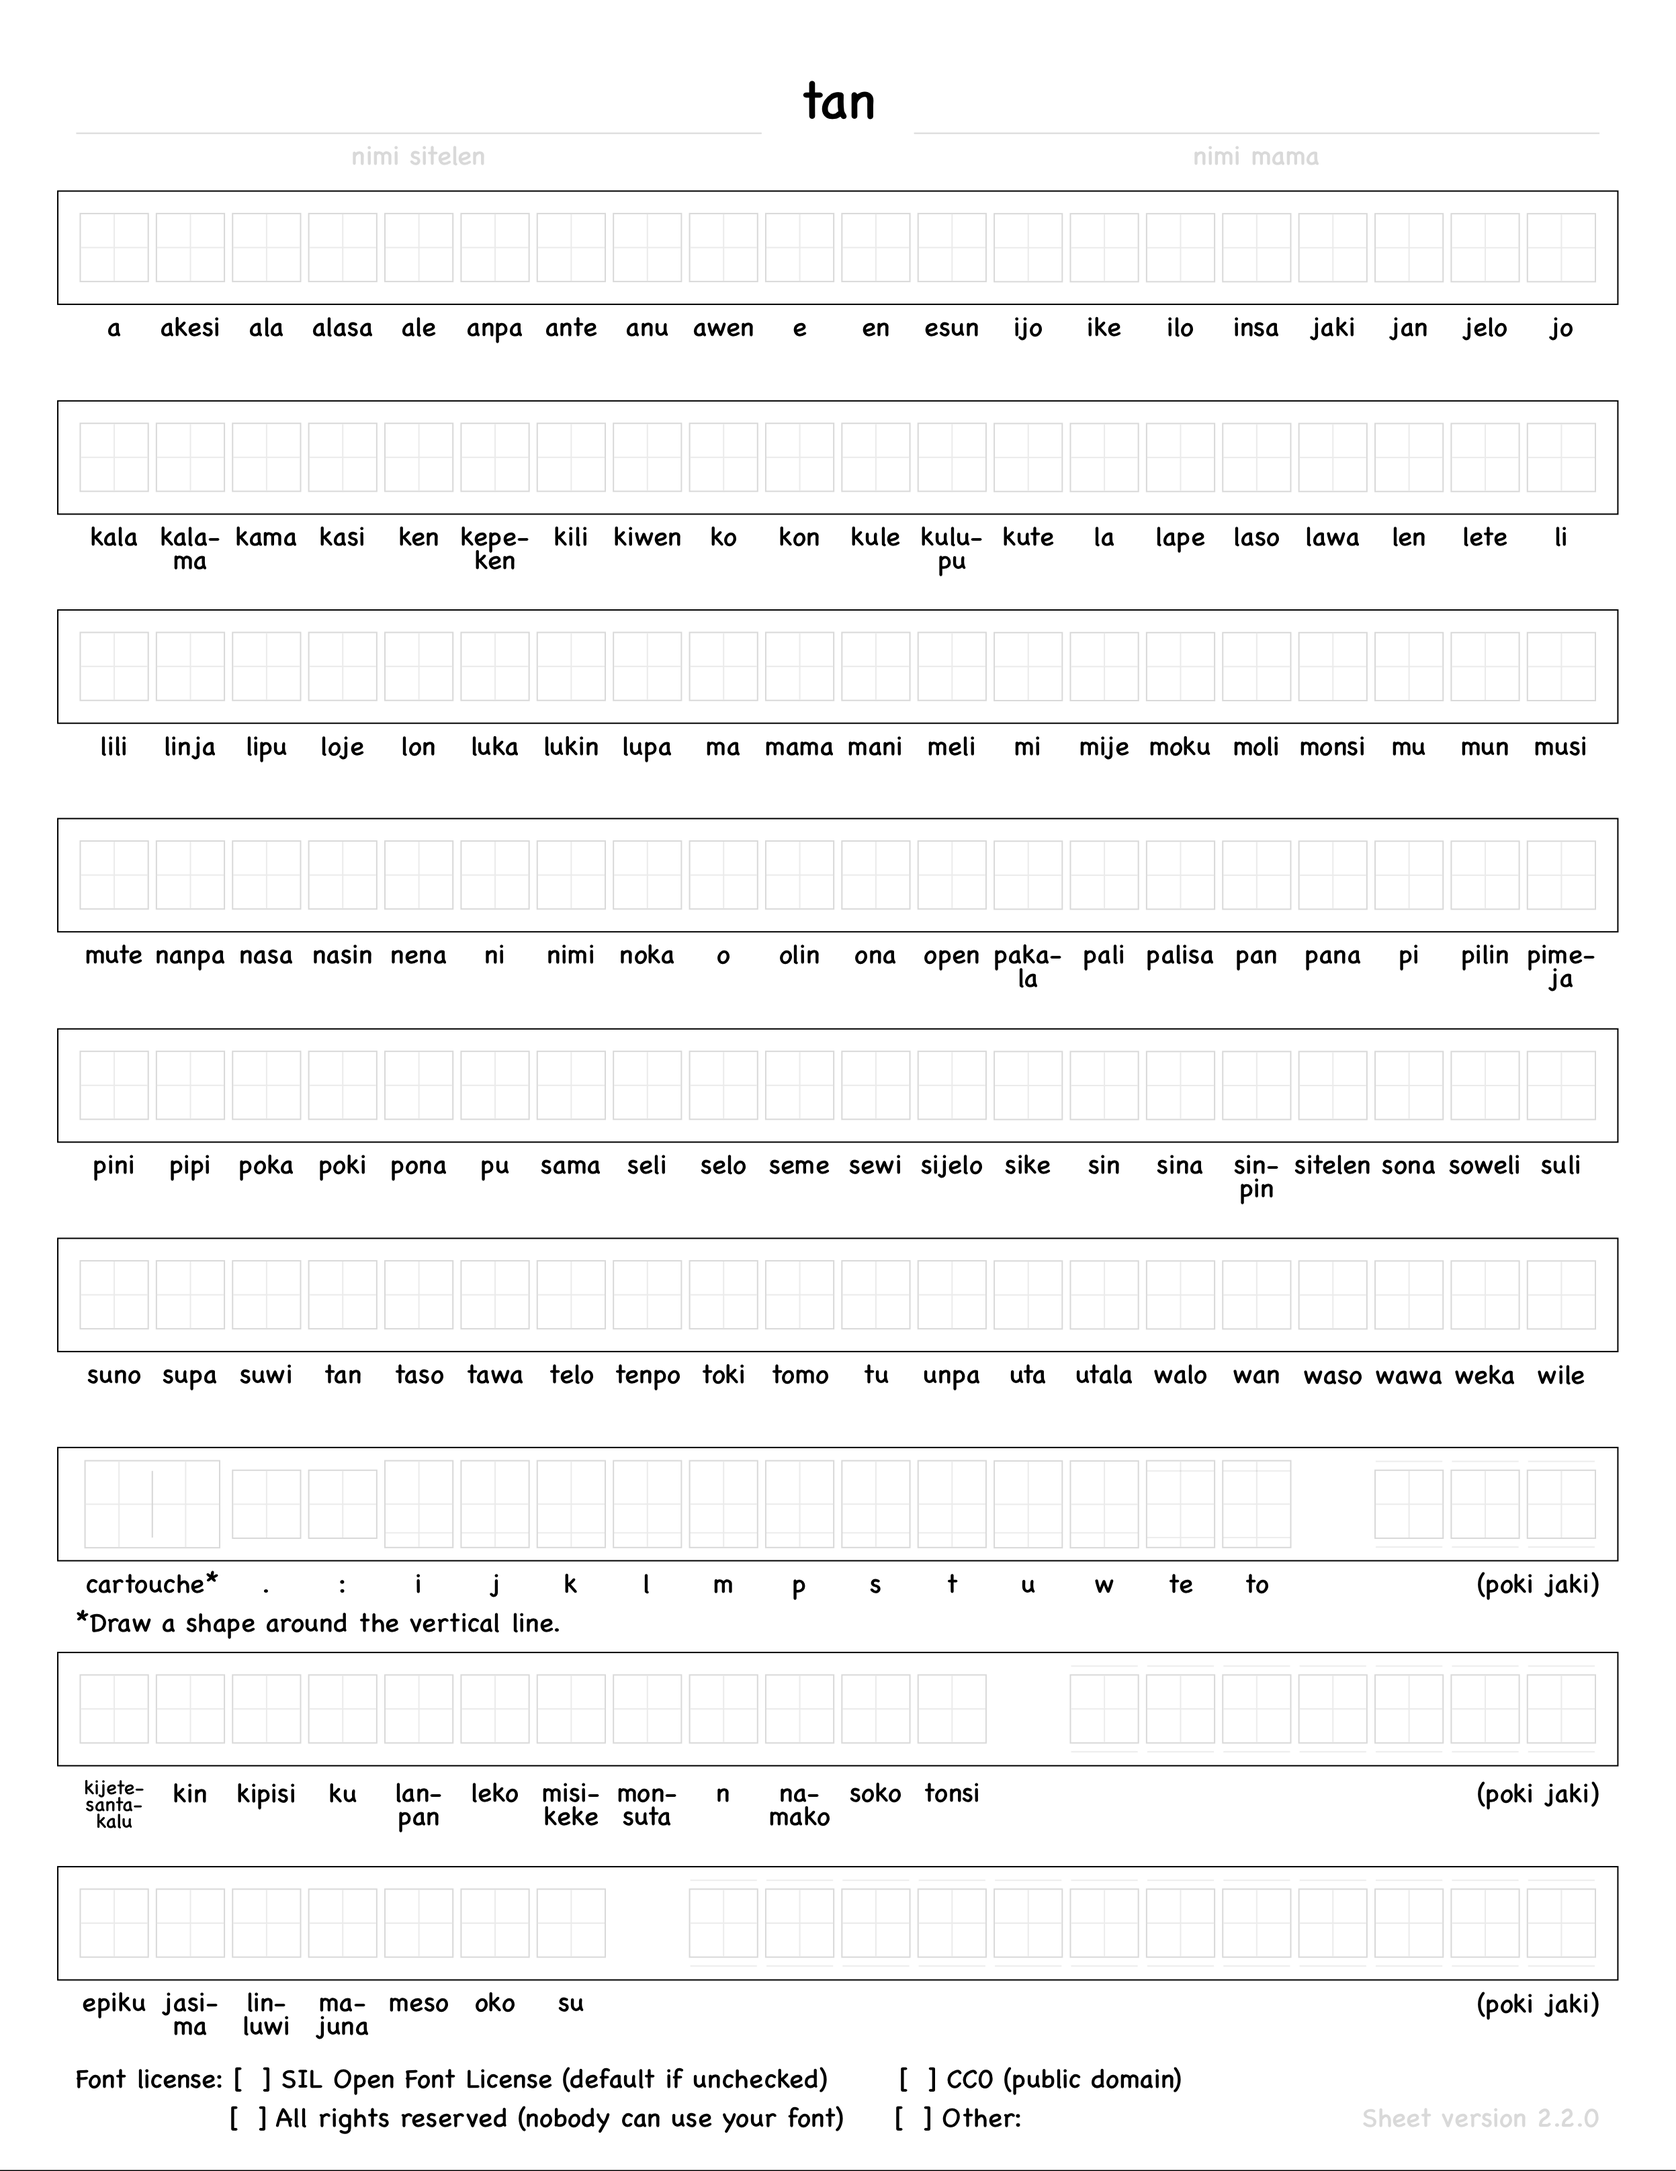
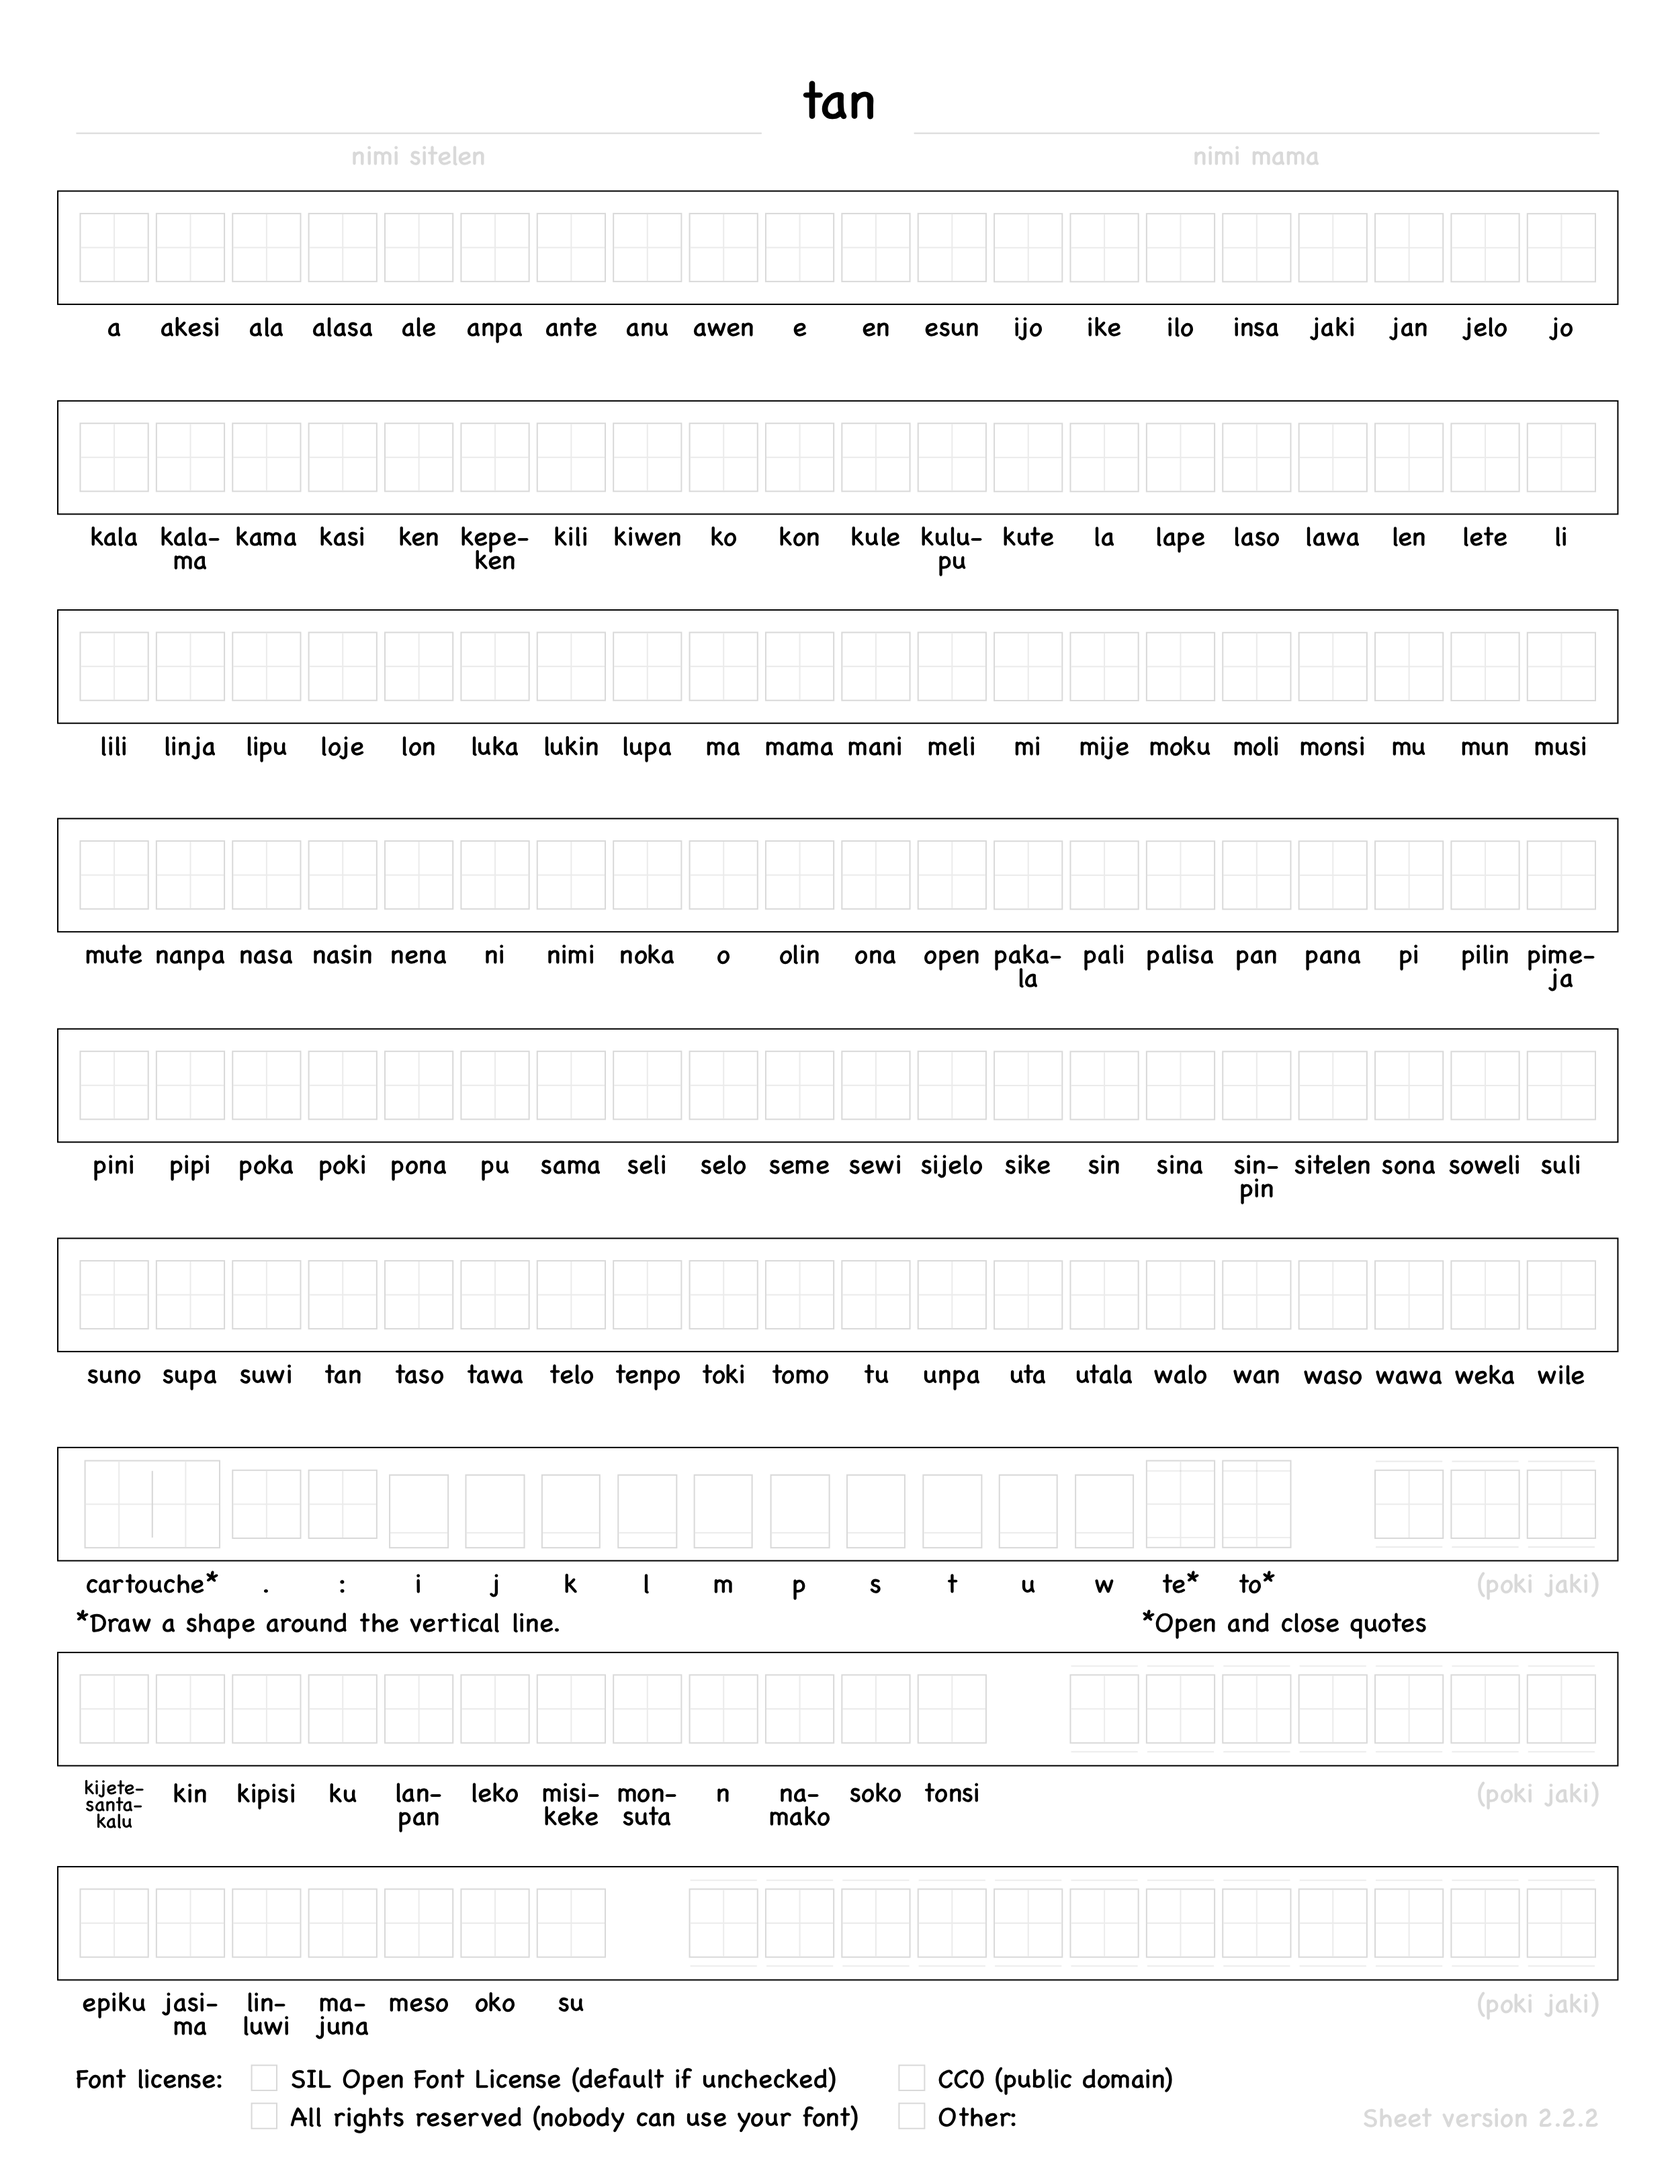
template v2.2.2, and other small changes

diff --git a/handwrite/svgtottf.py b/handwrite/svgtottf.py
@@ -105,6 +105,7 @@ class SVGtoTTF:
                     ))
                     # # If you make ligatures of the format `p o n a space`, 
                     # # the spacing is incorrect in every browser on iPhone and iPad, as well as Safari for macOS.
+                    # # (The browser correctly renders the ligature, but incorrectly renders an additional space.)
                     # # So I just make the space character zero-width instead,
                     # # which is redundant with `p o n a space` ligatures.
                     # list_of_ligs.append((
@@ -130,24 +131,31 @@ class SVGtoTTF:
 
 @cartoucheableGlyph = [
   a e i j k l m n o p s t u w
-  middotTok colonTok
   period colon space exclamation question underscore
 """
         for word in list_of_cartoucheable_glyphs:
             if (word != "cartoucheStartTok" and
-                word != "cartoucheEndTok"):
+                word != "cartoucheEndTok"
+            ):
                 ligatures_string += "  " + word + "\n"
 
         ligatures_string += """];
 
 lookup add_cartouche_middle {
+  # Add a cartouche middle after the glyph.
+  # (The cartouche middle is zero-width and extends to the left,
+  #  surrounding the glyph.)
   sub   @cartoucheableGlyph   by   @cartoucheableGlyph cartoucheMiddleTok;
 } add_cartouche_middle;
 
-feature ccmp {
+# idk what keyword to use here. liga, calt, ccmp, something else?
+feature calt {
+  # If a glyph follows a cartouche start, add a cartouche middle after the glyph.
   sub   cartoucheStartTok  [@cartoucheableGlyph]'   lookup add_cartouche_middle;
+
+  # If a glyph follows a cartouche middle, add a cartouche middle after the glyph.
   sub   cartoucheMiddleTok [@cartoucheableGlyph]'   lookup add_cartouche_middle;
-} ccmp;
+} calt;
 """
         # print(ligatures_string)
         feature_file = open(directory + os.sep + family + ".fea", "w", encoding="utf-8")
@@ -165,7 +173,7 @@ feature ccmp {
         self.generate_web_page(outdir, filename, family, designer, license, licenseurl)
 
     def generate_web_page(self, outdir, filename, family, designer, license, licenseurl):
-        example_web_page = open(outdir + os.sep + family + ".html", "w", encoding="utf-8")
+        example_web_page = open(outdir + os.sep + family.replace(" ", "-") + ".html", "w", encoding="utf-8")
         example_web_page.write(
 """
 <meta charset="utf-8" />
@@ -174,10 +182,12 @@ feature ccmp {
         font-family: '""" + family + """';
         src: url('""" + filename + """')
     }
+    body {
+        background-color: #334;
+    }
     * {
         font-size: 48px;
-        line-height: 1em;
-        background-color: #334;
+        /*line-height: 1em;*/
         color: white;
     }
     .tp {
@@ -200,8 +210,7 @@ kijetesantakalu kin kipisi ku lanpan leko misikeke monsuta n namako soko tonsi<b
 epiku jasima linluwi majuna meso oko su<br>
 </span>
 <p class="tp">
-<br><br>
-mi pana e <a href="https://example.com/">nasin tawa lipu ante</a> e <a href="https://example.com">nasin tawa lipu [en sama a n pona o]</a><br>
+
 </p>
 <p>License: <a href='""" + licenseurl + """'>""" + license + """</a></p>
 <span class="tp">
@@ -210,7 +219,7 @@ mi pana e <a href="https://example.com/">nasin tawa lipu ante</a> e <a href="htt
 
 
 
-
+
 
 　
 　　　

diff --git a/README.md b/README.md
@@ -1,4 +1,4 @@
-Handwrite sitelen pona, based on the [English version](https://github.com/builtree/handwrite).
+SP Font Maker, based on the English-language [Handwrite](https://github.com/builtree/handwrite).
 
 # Usage instructions
 
